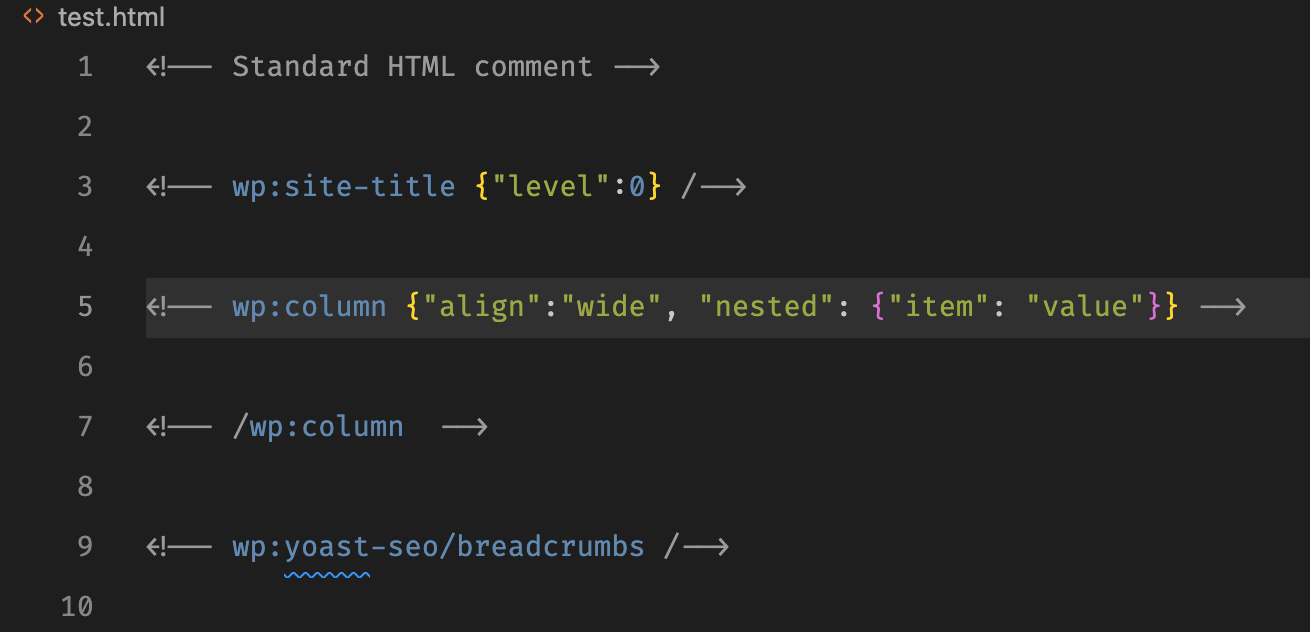
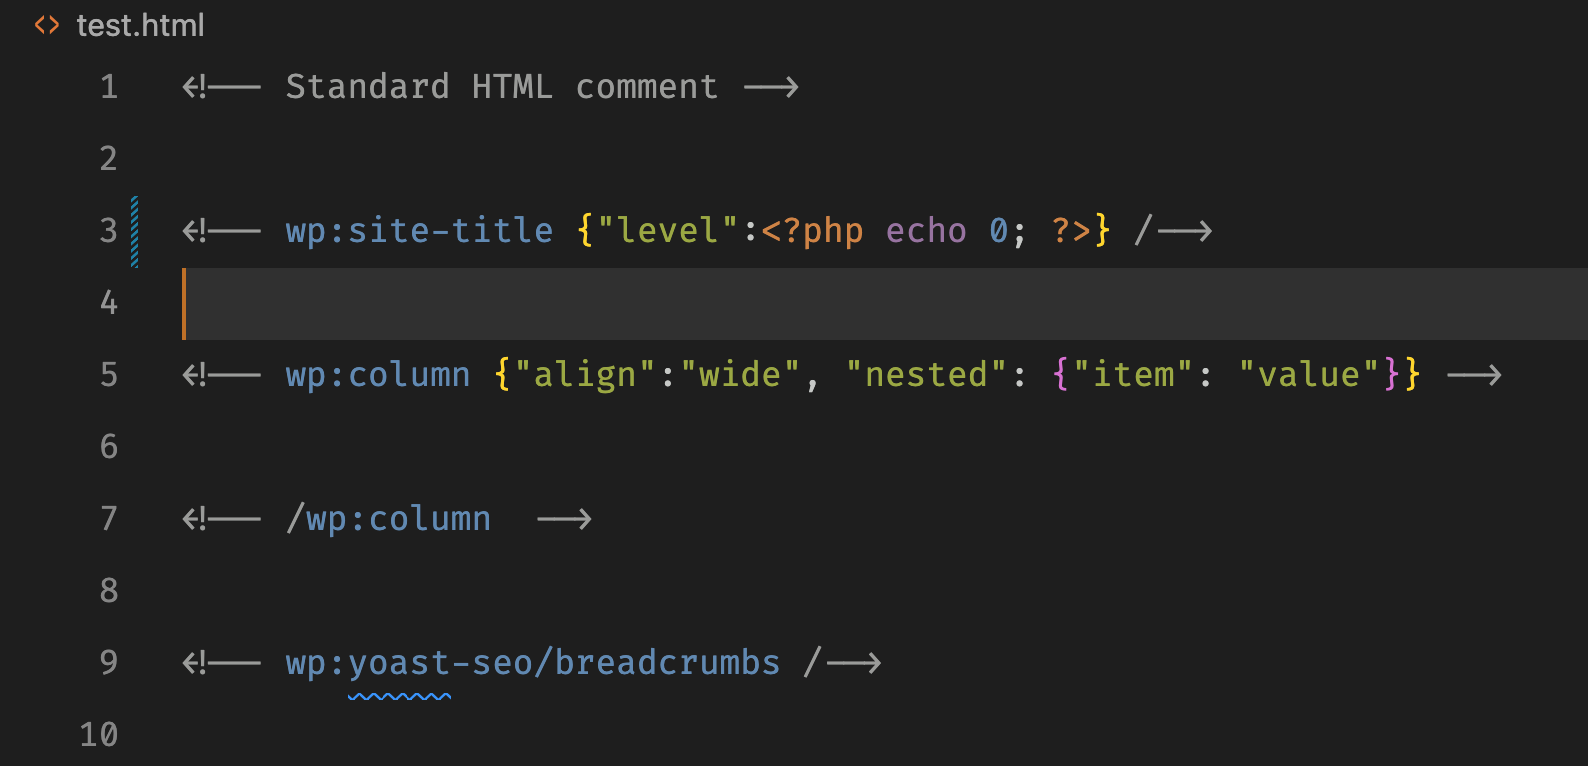
Include php syntax highlighting

diff --git a/test.html b/test.html
@@ -1,6 +1,6 @@
 <!-- Standard HTML comment -->
 
-<!-- wp:site-title {"level":0} /-->
+<!-- wp:site-title {"level":<?php echo 0; ?>} /-->
 
 <!-- wp:column {"align":"wide", "nested": {"item": "value"}} -->
 
